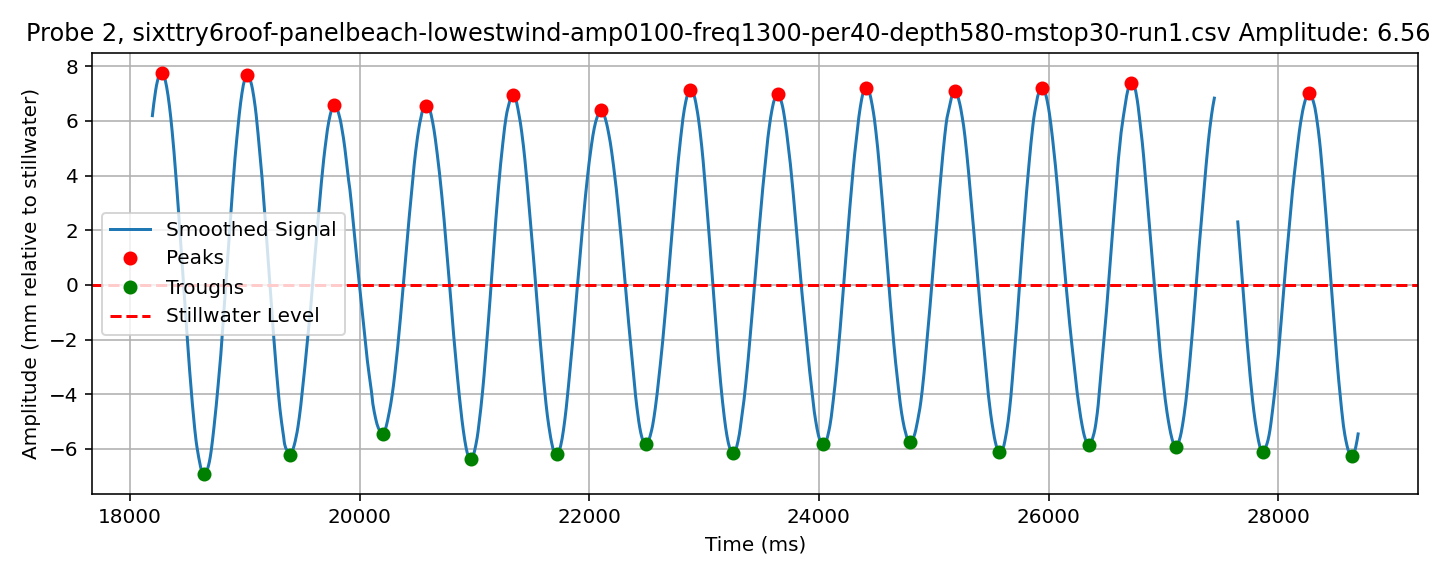
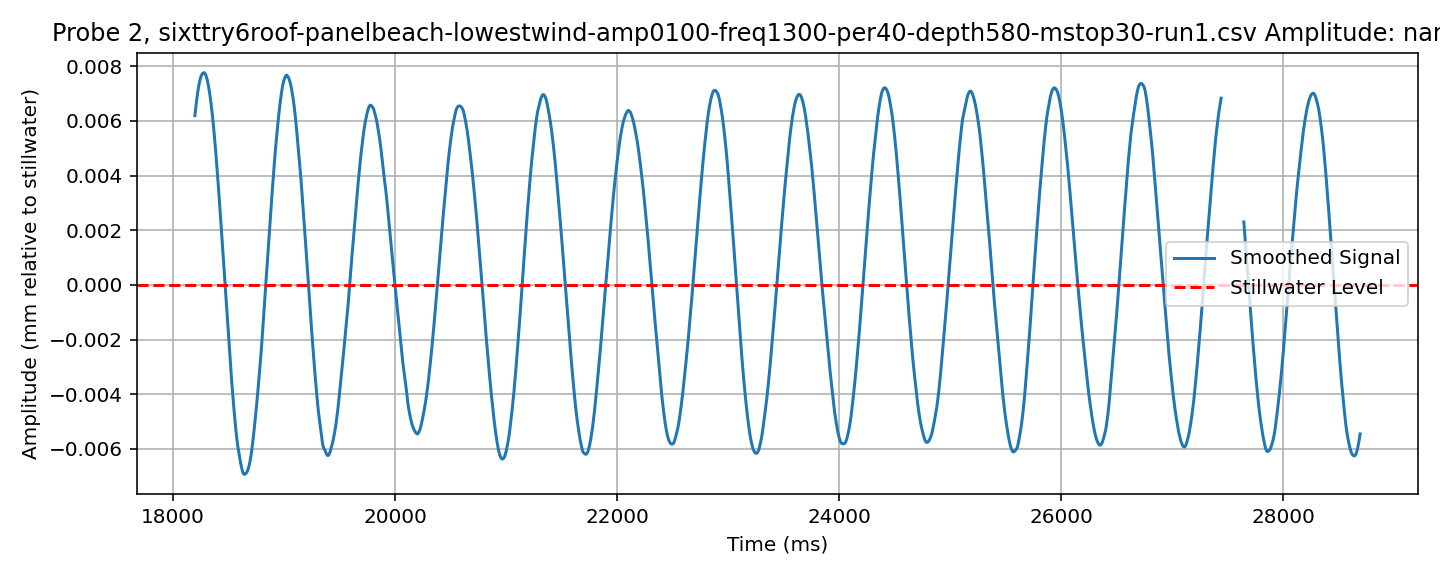
second

diff --git a/scripts/wave_processor.py b/scripts/wave_processor.py
@@ -115,30 +115,37 @@ class WaveProcessor:
     def compute_resting_levels(self):
         rest_files = [f for f in self.csv_files if 'nowind' in f.lower() and 'baddata' not in f.lower()]
         if not rest_files:
-            raise ValueError("No vindstille files found for resting level")
-
+            raise ValueError("No valid 'no wind' files found for resting level")
+    
         self.resting_probes_all = []
         for f in rest_files:
             df = pd.read_csv(self.folder_path / f, header=None)
-            probes = [df[col].to_numpy()[:self.stillwater_samples] for col in self.probe_cols]
+            probes = []
+            for col in self.probe_cols:
+                data = df[col].to_numpy()[:self.stillwater_samples]
+                if not data.size:
+                    raise ValueError(f"No valid data in column {col} of file {f}")
+                probes.append(data)
             self.resting_probes_all.append(probes)
-
-        avg_resting = [
-            np.nanmean(np.concatenate([resting_probes_all[f][i] for f in range(len(resting_probes_all))]))
+    
+        # Compute average resting levels (no *1000)
+        self.avg_resting_mm = [
+            np.nanmean(np.concatenate([self.resting_probes_all[f][i] for f in range(len(self.resting_probes_all))]))
             for i in range(len(self.probe_cols))
         ]
-        self.avg_resting_mm = [val*1000 for val in avg_resting]
-
-        # Offsets to align to probe 3
-        ref_idx = 2
-        self.offsets = [avg_resting[ref_idx]-avg_resting[i] for i in range(len(self.probe_cols))]
-
-        # Correct probes
+        print(f"Average resting levels (mm): {self.avg_resting_mm}")
+    
+        # Offsets to align to Probe 3
+        ref_idx = 2  # Probe 3
+        self.offsets = [self.avg_resting_mm[ref_idx] - self.avg_resting_mm[i] for i in range(len(self.probe_cols))]
+        print(f"Offsets relative to Probe 3: {self.offsets}")
+    
+        # Correct probes (no *1000)
         self.corrected_probes_mm = [
-            [np.array(arr + self.offsets[i])*1000 if len(arr)>0 else np.array([]) for arr in self.cut_probe_arrays[i]]
+            [np.array(arr + self.offsets[i]) if len(arr) > 0 else np.array([]) for arr in self.cut_probe_arrays[i]]
             for i in range(len(self.probe_cols))
         ]
-        self.plot_resting_levels(resting_probes_all)
+        self.plot_resting_levels()
 
 
     def apply_moving_average(self):
@@ -179,22 +186,25 @@ class WaveProcessor:
         signal = np.array(self.probes_ma[probe_idx][file_idx])
         time_axis = np.array(self.time_axes_ma[probe_idx][file_idx])
         stillwater = self.avg_resting_mm[probe_idx]
-
+    
+        print(f"Probe {probe_idx+1}, File {file_idx}: stillwater = {stillwater} mm")  # Debug
+    
         if len(signal) < 2:
             print(f"Cannot plot Probe {probe_idx+1}, File {file_idx}: signal too short")
             return np.nan
-
+    
+        # Shift signal to center around 0 relative to stillwater
         signal_shifted = signal - stillwater
-
+    
         dt_ms = np.mean(np.diff(time_axis)) if len(time_axis) > 1 else 4.0
-        fs = 1000/dt_ms
-        min_distance = int(fs / (2*self.signal_freq))
-
+        fs = 1000 / dt_ms
+        min_distance = int(fs / (2 * self.signal_freq))
+    
         peaks, _ = find_peaks(signal_shifted, distance=min_distance, prominence=0.5)
         troughs, _ = find_peaks(-signal_shifted, distance=min_distance, prominence=0.5)
         amps, time_pairs = self.compute_amplitudes(peaks, troughs, signal_shifted, time_axis, max_amplitudes=max_peaks)
         avg_amp = np.mean(amps) if amps else np.nan
-
+    
         # Save results
         key = f'amplitudes_probe{probe_idx+1}_file{file_idx}'
         self.data_dict[key] = {
@@ -204,13 +214,15 @@ class WaveProcessor:
             'time_pairs': time_pairs,
             'average_amplitude': avg_amp
         }
-
+    
         # Plot
-        plt.figure(figsize=(10,4))
+        plt.figure(figsize=(10, 4))
         plt.plot(time_axis, signal_shifted, label='Smoothed Signal')
-        if len(peaks)>0: plt.plot(time_axis[peaks], signal_shifted[peaks],'ro',label='Peaks')
-        if len(troughs)>0: plt.plot(time_axis[troughs], signal_shifted[troughs],'go',label='Troughs')
-        plt.axhline(0,color='red',linestyle='--',label='Stillwater Level')
+        if len(peaks) > 0:
+            plt.plot(time_axis[peaks], signal_shifted[peaks], 'ro', label='Peaks')
+        if len(troughs) > 0:
+            plt.plot(time_axis[troughs], signal_shifted[troughs], 'go', label='Troughs')
+        plt.axhline(0, color='red', linestyle='--', label='Stillwater Level')
         plt.xlabel("Time (ms)")
         plt.ylabel("Amplitude (mm relative to stillwater)")
         plt.title(f"Probe {probe_idx+1}, {self.file_names[file_idx]} Amplitude: {avg_amp:.2f} mm")
@@ -219,24 +231,25 @@ class WaveProcessor:
         plt.tight_layout()
         if output_dir:
             Path(output_dir).mkdir(parents=True, exist_ok=True)
-            plt.savefig(Path(output_dir)/f'probe{probe_idx+1}_file{file_idx}_amplitude.png')
+            plt.savefig(Path(output_dir) / f'probe{probe_idx+1}_file{file_idx}_amplitude.png')
         plt.show(block=False)
         return avg_amp
+   
     
-    def plot_resting_levels(self, resting_probes_all):
-        plt.figure(figsize=(10,6))
+    def plot_resting_levels(self):
+        if not self.resting_probes_all:
+            raise ValueError("self.resting_probes_all is empty or not set")
         
+        plt.figure(figsize=(10, 6))
         for probe_idx in range(len(self.probe_cols)):
-            # collect all samples from all rest files for this probe
-            all_samples = [resting_probes_all[f][probe_idx] for f in range(len(resting_probes_all))]
-            concatenated = np.concatenate(all_samples)
-    
+            all_samples = [self.resting_probes_all[f][probe_idx] for f in range(len(self.resting_probes_all))]
+            concatenated = np.concatenate(all_samples)  # Remove *1000 if data is in mm
             plt.plot(concatenated, label=f"Probe {probe_idx+1}")
-    
         plt.xlabel("Sample index")
-        plt.ylabel("Raw amplitude [mm?]")
-        plt.title("Resting level samples from 'nowind' runs")
+        plt.ylabel("Raw amplitude [mm]")
+        plt.title("Resting level samples from 'no wind' runs")
         plt.legend()
         plt.grid(True)
         plt.tight_layout()
         plt.show()
+    

diff --git a/main.py b/main.py
@@ -35,7 +35,7 @@ processor = WaveProcessor(
 
 # ---------------- Select all CSV files ----------------
 selected_indices = list(range(len(processor.csv_files)))  # automatically all CSVs
-selected_indices = [0]
+selected_indices = [0,1]
 processor.load_selected_files(selected_indices)
 
 # ---------------- Compute resting levels and offsets ----------------
@@ -65,7 +65,7 @@ for i, fname in enumerate(processor.file_names):
         print(f"{fname}: insufficient amplitude data")
 
 # Example: plot stillwater for first file 
-processor.plot_resting_levels(resting_probes_all=0)
+#processor.plot_resting_levels()
 
 
 
